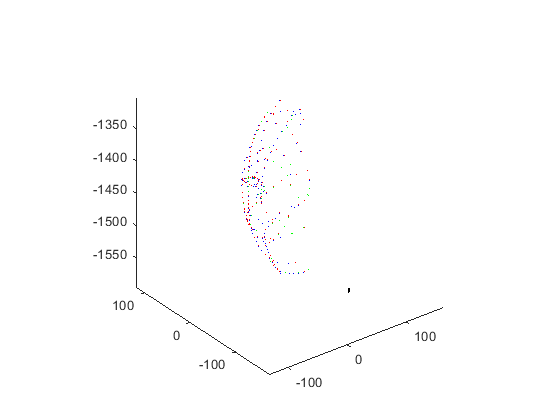
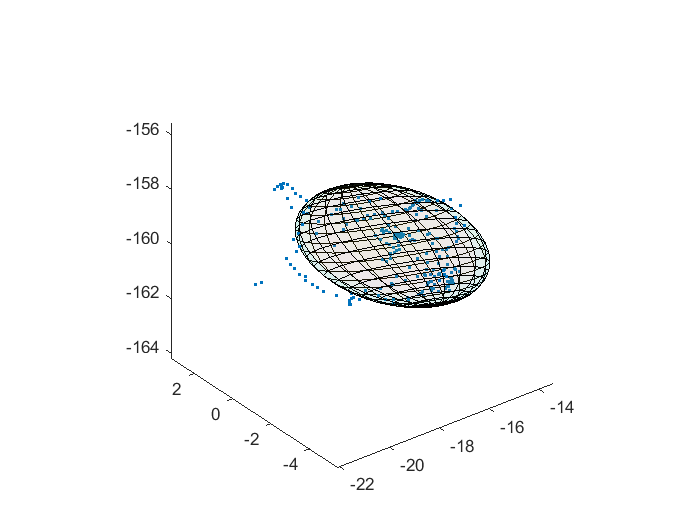
Finished Q4
Updated the README and images accordingly

diff --git a/Assignment3/a3.m b/Assignment3/a3.m
@@ -2,7 +2,7 @@
 
 stylusID = '8700340';
 markerID = '8700339';
-dataFile = 'pivot_calibration_2.csv';
+dataFile = 'pivot_calibration_0.csv';
 
 setupDrawing();
 
@@ -20,7 +20,7 @@ setupDrawing();
 
 % fit the sphere to get centre c and radius r
 
-% [c, r] = fitSphere( pos );
+%[c, r] = fitSphere( pos );
 
 % fit the sphere using RANSAC, instead.  Note that RANSAC should
 % return a list of indices of the inlying poses, and only those poses
@@ -32,7 +32,7 @@ orient = orient( inlierIndices, : );
 
 % Show the fit
 
-drawCoordSystems( pos, orient );
+%drawCoordSystems( pos, orient );
 %drawSphere( c, r );
 
 % Transform c into the coordinate system of each pos
@@ -47,10 +47,11 @@ for i = 1:m
     v = rotationMat(:, 2);
     w = rotationMat(:, 3);
     transformMat = [
-            u', dot(-pos(i, :), u);
-            v', dot(-pos(i, :), v);
-            w', dot(-pos(i, :), w);
-            0, 0, 0, 1 ];
+        u', dot(-pos(i, :), u);
+        v', dot(-pos(i, :), v);
+        w', dot(-pos(i, :), w);
+        0, 0, 0, 1 
+    ];
     temp = transformMat * [c; 1];
     cTransformedToPositions(i, :) = temp';
 end
@@ -112,18 +113,9 @@ disp( sprintf( 'Local tip stdev:    (%g, %g, %g)', c_stdev(1),   c_stdev(2),   c
 %
 % 'c_world' are the tip points in the world coordinate system.
 % They should all be very near the pivot point.
-cWorldTipsFromTool = zeros(m, 3);
-for q = 1:m
-    transformationToWorldMat = [
-            1, 0, 0, c(1);
-            0, 1, 0, c(2);
-            0, 0, 1, c(3);
-            0, 0, 0, 1
-        ];
-    temp = transformationToWorldMat * cTransformedToPositions(q, :)';
-    cWorldTipsFromTool(q, :) = [temp(1), temp(2), temp(3)];
-end
-c_world = cWorldTipsFromTool;
+
+c_world = cTransformedToPositions(:, 1:3);
+
 drawPointsWithEllipsoid( c_world, c_stdev );
 
 
@@ -394,66 +386,39 @@ function drawPointsWithEllipsoid( points, stdev )
     yr = stdev(2);
     zr = stdev(3);
     
+    %draw centre point
+    %scatter3(xc, yc, zc, '.', 'MarkerFaceColor', 'g');
+    
+    %draw all points
+    scatter3(points(:, 1), points(:, 2), points(:, 3), '.', ...
+        'MarkerFaceColor', 'g');
+    
     [eigVec, eigVal] = eig(cov(points));
+    
     [x,y,z] = ellipsoid(0,0,0,1,1,1);
-    ellipsoidMat = [x(:), y(:), z(:)];
-    [m, n] = size(ellipsoidMat);
     
-    %calculate rotation
-    rotMat = [];    
-    for row = 1:m  %pull out a row of ellipsoidMat
-        temp = eigVec' * ellipsoidMat(row,:)';
-        rotMat = [rotMat; temp'];
-    end
+    % Step 1: put the x, y, z points into a 441x3 matrix
+    %ellipsoidMat = [x(:), y(:), z(:)];
+    %[m, n] = size(ellipsoidMat);
     
-    %calculate translation
-    xTrans = 1.96*sqrt(eigVal(1,1)) .* rotMat(:, 1);
-    yTrans = 1.96*sqrt(eigVal(2,2)) .* rotMat(:, 2);
-    zTrans = 1.96*sqrt(eigVal(3,3)) .* rotMat(:, 3);
+    % Step 2: multiplying that on the right side by a 3x3 (diagonal) 
+    % scaling matrix
+    %scaleMat = ellipsoidMat * (1.96*sqrt(eigVal));
     
-    for i = 1:m
-        xTrans(i,1) = xTrans(i,1) + xc;
-        yTrans(i,1) = yTrans(i,1) + yc;
-        zTrans(i,1) = zTrans(i,1) + zc;
-    end
+    % Step 3: multiplying that on the right side by the transpose of 
+    % eigenvector array
+    %rotMat = scaleMat * eigVec';
     
-    %conver 441x1 back to 21x21
-    X = [];
-    Y = [];
-    Z = [];
-    for k = 1:21:441
-        X = [X, xTrans(k:k+20)];
-        Y = [Y, yTrans(k:k+20)];
-        Z = [Z, zTrans(k:k+20)];
-    end
-        
-%     rotMat = [];
-%     for j = 1:m
-%         newVec = eigVec' * ellipsoidMat(j, :)';
-%         rotMat = [rotMat; newVec'];
-%     end
-%     % translate the matrix
-%     translateMat = rotMat;
-%     xLong = 1.96*sqrt(eigVal(1,1)) .* translateMat(:, 1);
-%     yLong = 1.96*sqrt(eigVal(2,2)) .* translateMat(:, 2);
-%     zLong = 1.96*sqrt(eigVal(3,3)) .* translateMat(:, 3);
-%     x = [];
-%     y = [];
-%     z = [];
-%     for k = 1:21:441
-%         x = [x, xLong(k:k+20)];
-%         y = [y, yLong(k:k+20)];
-%         z = [z, zLong(k:k+20)];
-%     end
-%     for q = 1:21
-%         for r = 1:21
-%             x(q, r) = x(q, r) + xc;
-%             y(q, r) = y(q, r) + yc;
-%             z(q, r) = z(q, r) + zc;
-%         end
-%     end
-    % apply a transformation to those points
-    %figure
+    % Step 4: adding to that the mean of the points
+    %Matrix = rotMat + mean(points);
+    
+    Matrix = (([x(:), y(:), z(:)] * (1.96*sqrt(eigVal))) * eigVec') + mean(points);
+    
+    % use reshape to turn each 441x1 back into 21x21
+    X = reshape(Matrix(:,1),[21,21]);
+    Y = reshape(Matrix(:,2),[21,21]);
+    Z = reshape(Matrix(:,3),[21,21]);
+    
     surf(X, Y, Z, 'FaceAlpha', 0.1)
-    %axis equal
+
 end

diff --git a/Assignment3/a3/a3.m b/Assignment3/a3/a3.m
@@ -2,7 +2,7 @@
 
 stylusID = '8700340';
 markerID = '8700339';
-dataFile = 'pivot_calibration_2.csv';
+dataFile = 'pivot_calibration_0.csv';
 
 setupDrawing();
 
@@ -20,7 +20,7 @@ setupDrawing();
 
 % fit the sphere to get centre c and radius r
 
-% [c, r] = fitSphere( pos );
+%[c, r] = fitSphere( pos );
 
 % fit the sphere using RANSAC, instead.  Note that RANSAC should
 % return a list of indices of the inlying poses, and only those poses
@@ -32,7 +32,7 @@ orient = orient( inlierIndices, : );
 
 % Show the fit
 
-drawCoordSystems( pos, orient );
+%drawCoordSystems( pos, orient );
 %drawSphere( c, r );
 
 % Transform c into the coordinate system of each pos
@@ -47,10 +47,11 @@ for i = 1:m
     v = rotationMat(:, 2);
     w = rotationMat(:, 3);
     transformMat = [
-            u', dot(-pos(i, :), u);
-            v', dot(-pos(i, :), v);
-            w', dot(-pos(i, :), w);
-            0, 0, 0, 1 ];
+        u', dot(-pos(i, :), u);
+        v', dot(-pos(i, :), v);
+        w', dot(-pos(i, :), w);
+        0, 0, 0, 1 
+    ];
     temp = transformMat * [c; 1];
     cTransformedToPositions(i, :) = temp';
 end
@@ -112,18 +113,9 @@ disp( sprintf( 'Local tip stdev:    (%g, %g, %g)', c_stdev(1),   c_stdev(2),   c
 %
 % 'c_world' are the tip points in the world coordinate system.
 % They should all be very near the pivot point.
-cWorldTipsFromTool = zeros(m, 3);
-for q = 1:m
-    transformationToWorldMat = [
-            1, 0, 0, c(1);
-            0, 1, 0, c(2);
-            0, 0, 1, c(3);
-            0, 0, 0, 1
-        ];
-    temp = transformationToWorldMat * cTransformedToPositions(q, :)';
-    cWorldTipsFromTool(q, :) = [temp(1), temp(2), temp(3)];
-end
-c_world = cWorldTipsFromTool;
+
+c_world = cTransformedToPositions(:, 1:3);
+
 drawPointsWithEllipsoid( c_world, c_stdev );
 
 
@@ -394,66 +386,39 @@ function drawPointsWithEllipsoid( points, stdev )
     yr = stdev(2);
     zr = stdev(3);
     
+    %draw centre point
+    %scatter3(xc, yc, zc, '.', 'MarkerFaceColor', 'g');
+    
+    %draw all points
+    scatter3(points(:, 1), points(:, 2), points(:, 3), '.', ...
+        'MarkerFaceColor', 'g');
+    
     [eigVec, eigVal] = eig(cov(points));
+    
     [x,y,z] = ellipsoid(0,0,0,1,1,1);
-    ellipsoidMat = [x(:), y(:), z(:)];
-    [m, n] = size(ellipsoidMat);
     
-    %calculate rotation
-    rotMat = [];    
-    for row = 1:m  %pull out a row of ellipsoidMat
-        temp = eigVec' * ellipsoidMat(row,:)';
-        rotMat = [rotMat; temp'];
-    end
+    % Step 1: put the x, y, z points into a 441x3 matrix
+    %ellipsoidMat = [x(:), y(:), z(:)];
+    %[m, n] = size(ellipsoidMat);
     
-    %calculate translation
-    xTrans = 1.96*sqrt(eigVal(1,1)) .* rotMat(:, 1);
-    yTrans = 1.96*sqrt(eigVal(2,2)) .* rotMat(:, 2);
-    zTrans = 1.96*sqrt(eigVal(3,3)) .* rotMat(:, 3);
+    % Step 2: multiplying that on the right side by a 3x3 (diagonal) 
+    % scaling matrix
+    %scaleMat = ellipsoidMat * (1.96*sqrt(eigVal));
     
-    for i = 1:m
-        xTrans(i,1) = xTrans(i,1) + xc;
-        yTrans(i,1) = yTrans(i,1) + yc;
-        zTrans(i,1) = zTrans(i,1) + zc;
-    end
+    % Step 3: multiplying that on the right side by the transpose of 
+    % eigenvector array
+    %rotMat = scaleMat * eigVec';
     
-    %conver 441x1 back to 21x21
-    X = [];
-    Y = [];
-    Z = [];
-    for k = 1:21:441
-        X = [X, xTrans(k:k+20)];
-        Y = [Y, yTrans(k:k+20)];
-        Z = [Z, zTrans(k:k+20)];
-    end
-        
-%     rotMat = [];
-%     for j = 1:m
-%         newVec = eigVec' * ellipsoidMat(j, :)';
-%         rotMat = [rotMat; newVec'];
-%     end
-%     % translate the matrix
-%     translateMat = rotMat;
-%     xLong = 1.96*sqrt(eigVal(1,1)) .* translateMat(:, 1);
-%     yLong = 1.96*sqrt(eigVal(2,2)) .* translateMat(:, 2);
-%     zLong = 1.96*sqrt(eigVal(3,3)) .* translateMat(:, 3);
-%     x = [];
-%     y = [];
-%     z = [];
-%     for k = 1:21:441
-%         x = [x, xLong(k:k+20)];
-%         y = [y, yLong(k:k+20)];
-%         z = [z, zLong(k:k+20)];
-%     end
-%     for q = 1:21
-%         for r = 1:21
-%             x(q, r) = x(q, r) + xc;
-%             y(q, r) = y(q, r) + yc;
-%             z(q, r) = z(q, r) + zc;
-%         end
-%     end
-    % apply a transformation to those points
-    %figure
+    % Step 4: adding to that the mean of the points
+    %Matrix = rotMat + mean(points);
+    
+    Matrix = (([x(:), y(:), z(:)] * (1.96*sqrt(eigVal))) * eigVec') + mean(points);
+    
+    % use reshape to turn each 441x1 back into 21x21
+    X = reshape(Matrix(:,1),[21,21]);
+    Y = reshape(Matrix(:,2),[21,21]);
+    Z = reshape(Matrix(:,3),[21,21]);
+    
     surf(X, Y, Z, 'FaceAlpha', 0.1)
-    %axis equal
+
 end
